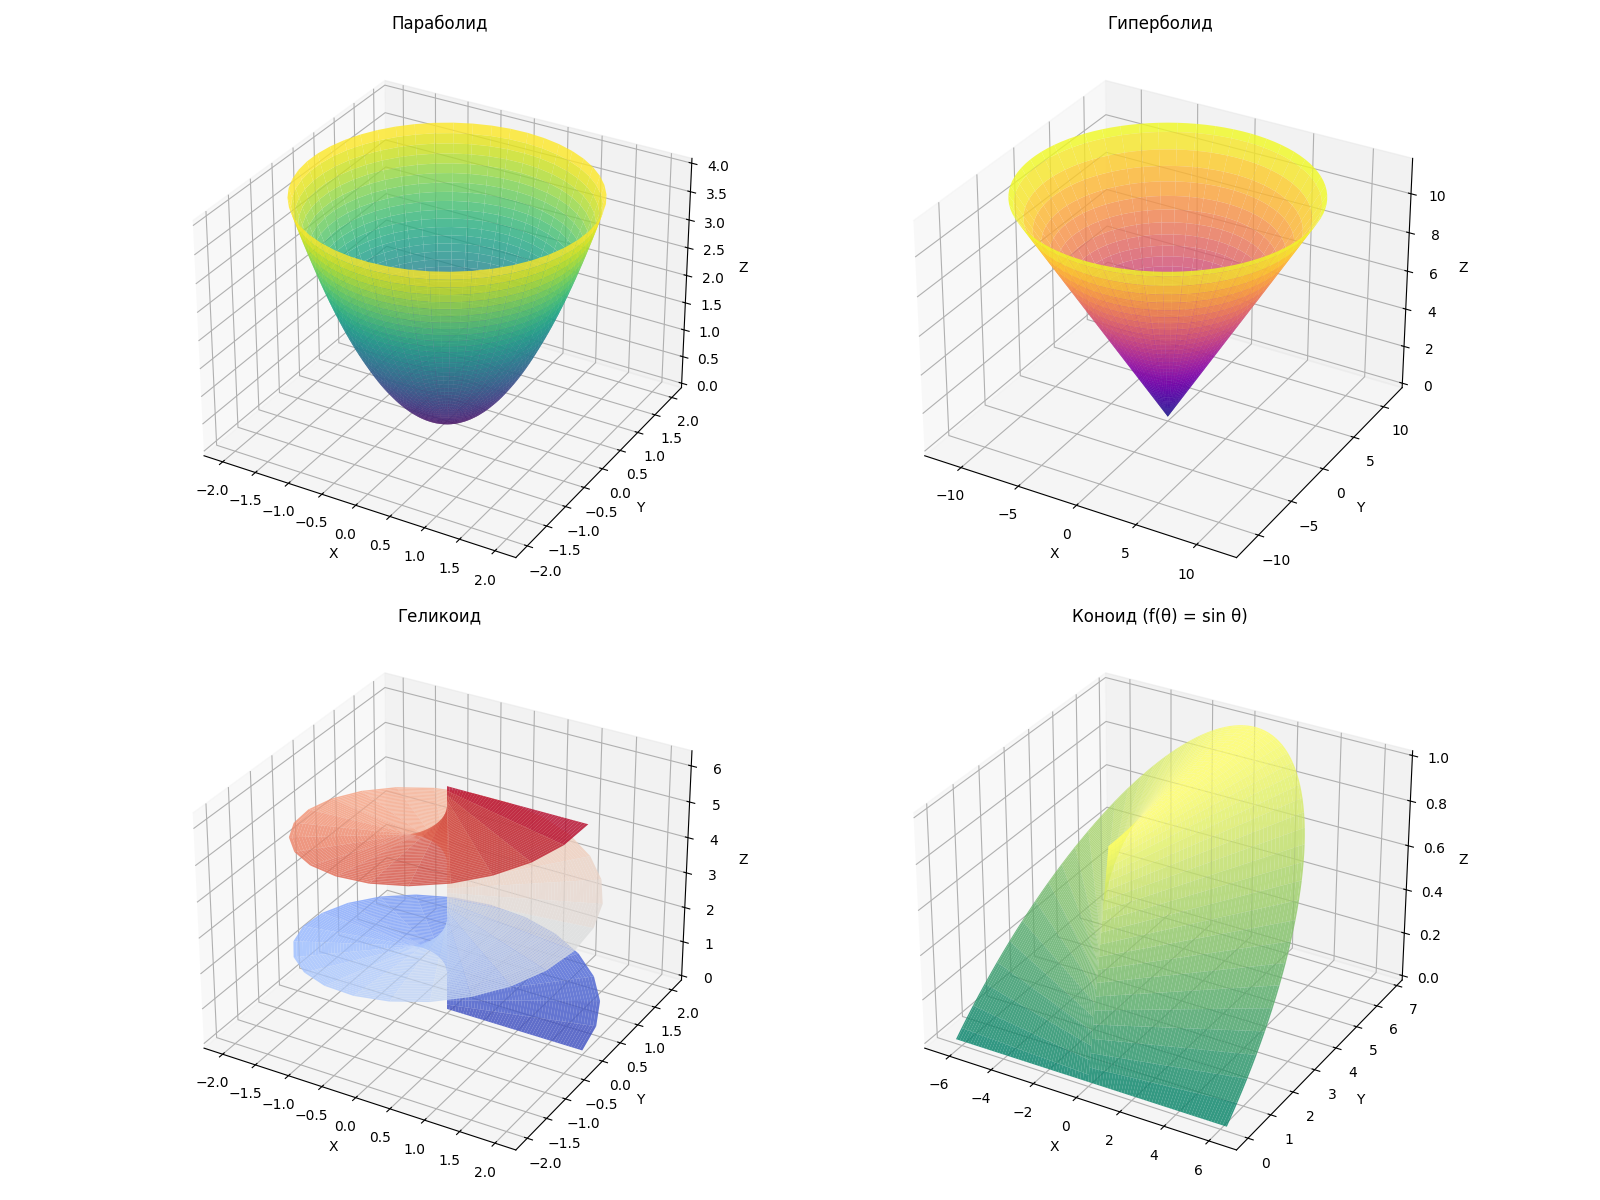
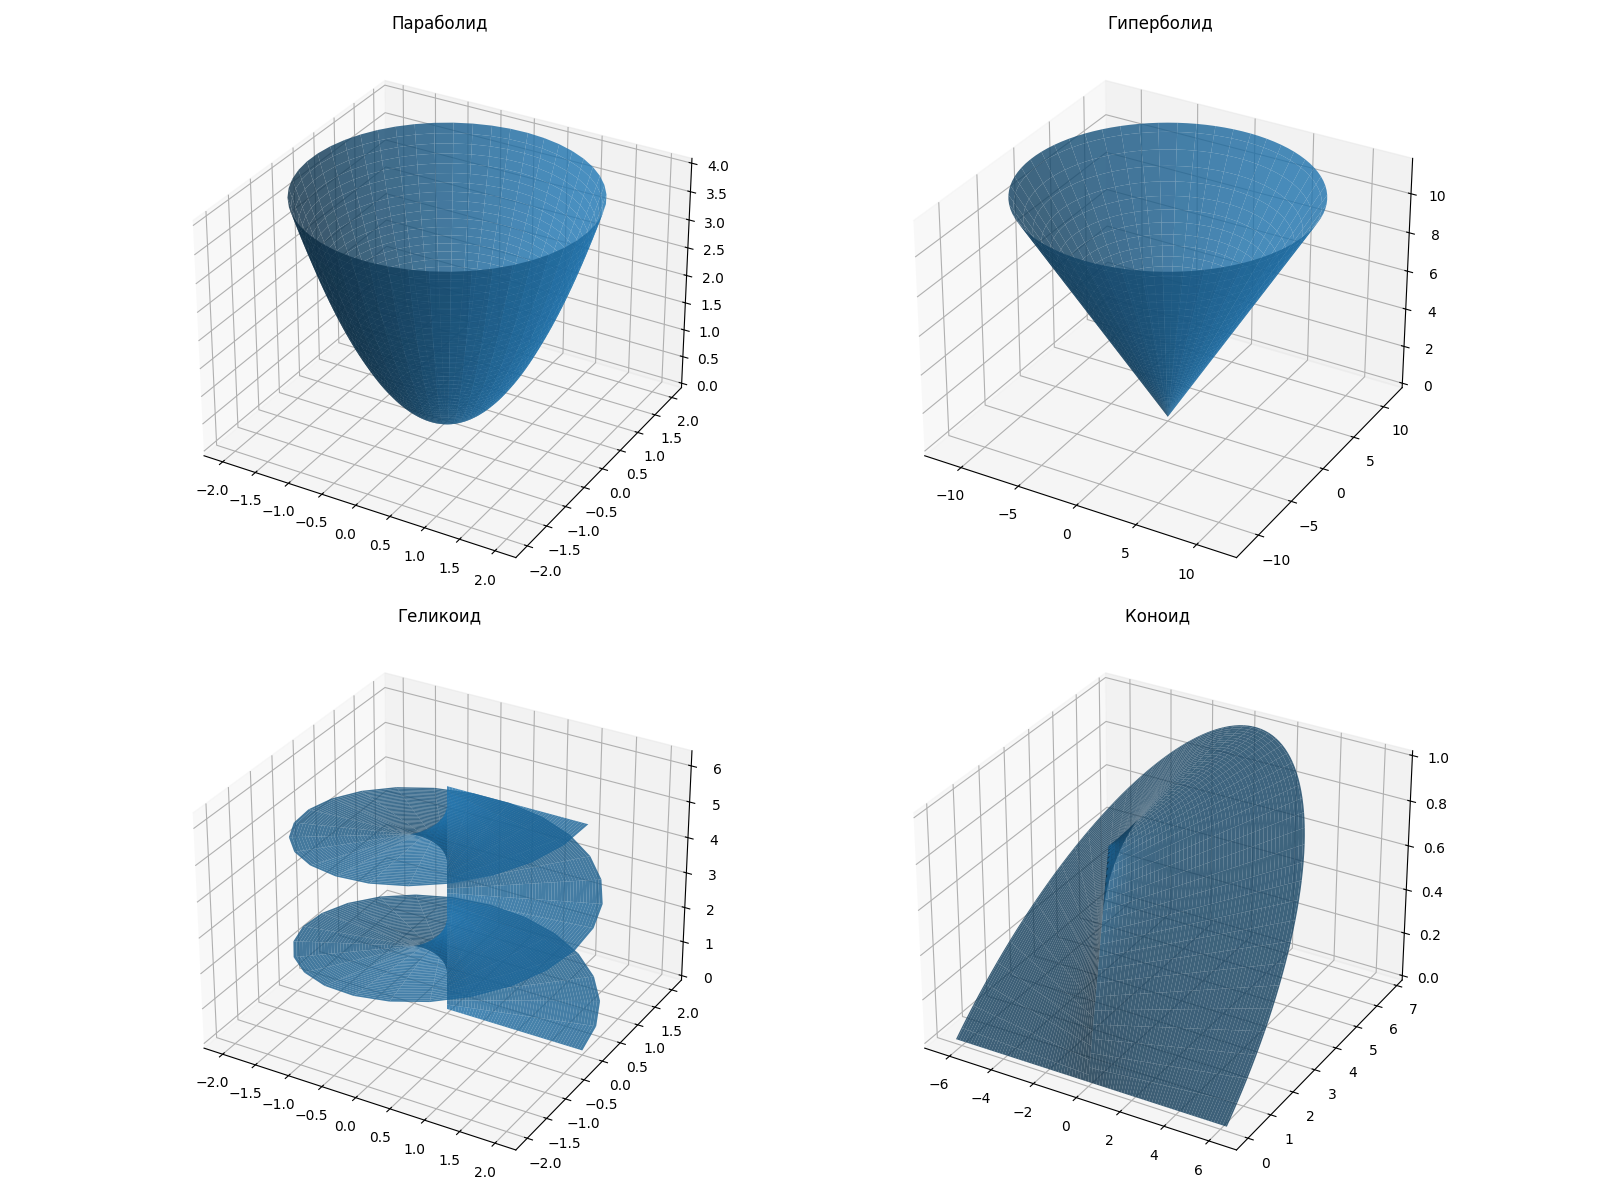
fbbfgg

diff --git a/square_lab_my.py b/square_lab_my.py
@@ -1,0 +1,123 @@
+import numpy as np
+import matplotlib.pyplot as plt
+from matplotlib.animation import FuncAnimation
+from mpl_toolkits.mplot3d.art3d import Poly3DCollection
+
+total_frames = 100
+fps = 30
+cube_size = 1.0
+initial_z = 0
+jump_height = 3.0
+rotation_speed = 180
+
+fig = plt.figure(figsize=(10, 8))
+ax = fig.add_subplot(111, projection='3d')
+ax.set_xlabel('X')
+ax.set_ylabel('Y')
+ax.set_zlabel('Z')
+ax.set_title('Прыгающий куб')
+ax.set_xlim(-2, 2)
+ax.set_ylim(-2, 2)
+ax.set_zlim(-0.5, 4)
+ax.set_xticks([])
+ax.set_yticks([])
+ax.set_zticks([])
+ax.grid(False)
+
+def create_cube(center=(0, 0, 0), size=1, rotation=0):
+    vertices = np.array([
+        [-1, -1, -1],
+        [1, -1, -1],
+        [1, 1, -1],
+        [-1, 1, -1],
+        [-1, -1, 1],
+        [1, -1, 1],
+        [1, 1, 1],
+        [-1, 1, 1]
+    ]) * size / 2
+    
+    if rotation != 0:
+        theta = np.radians(rotation)
+        rotation_matrix = np.array([
+            [np.cos(theta), -np.sin(theta), 0],
+            [np.sin(theta), np.cos(theta), 0],
+            [0, 0, 1]
+        ])
+        vertices = vertices @ rotation_matrix.T
+    
+    vertices += np.array(center)
+    
+    faces = [
+        [vertices[0], vertices[1], vertices[2], vertices[3]],
+        [vertices[4], vertices[5], vertices[6], vertices[7]],
+        [vertices[0], vertices[1], vertices[5], vertices[4]],
+        [vertices[2], vertices[3], vertices[7], vertices[6]],
+        [vertices[1], vertices[2], vertices[6], vertices[5]],
+        [vertices[0], vertices[3], vertices[7], vertices[4]]
+    ]
+    
+    return vertices, faces
+
+face_colors = ['red', 'blue', 'green', 'yellow', 'purple', 'orange']
+
+cube = Poly3DCollection([], alpha=0.8, linewidths=1, edgecolors='black')
+for color in face_colors:
+    cube.set_facecolor(color)
+ax.add_collection3d(cube)
+
+floor = Poly3DCollection([[
+    [-2, -2, -0.01],
+    [2, -2, -0.01],
+    [2, 2, -0.01],
+    [-2, 2, -0.01]
+]], alpha=0.3, color='gray')
+ax.add_collection3d(floor)
+
+def jump_height_at_frame(frame):
+    t = frame / total_frames
+    if t < 0.5:
+        return 4 * jump_height * t * (1 - t)
+    else:
+        return 4 * jump_height * t * (1 - t)
+
+def init():
+    cube.set_verts([])
+    return cube,
+
+def animate(frame):
+    height = jump_height_at_frame(frame % total_frames)
+    rotation = rotation_speed * (frame % total_frames) / total_frames
+    
+    vertices, faces = create_cube(
+        center=(0, 0, initial_z + height),
+        size=cube_size,
+        rotation=rotation
+    )
+    
+    cube.set_verts(faces)
+    
+    colors = []
+    for i, color in enumerate(face_colors):
+        factor = 0.8 + 0.2 * (height / jump_height)
+        colors.append(color)
+    cube.set_facecolor(colors)
+    
+    return cube,
+
+ani = FuncAnimation(
+    fig, 
+    animate, 
+    frames=total_frames * 3,
+    init_func=init, 
+    blit=True, 
+    interval=1000/fps
+)
+
+plt.tight_layout()
+plt.show()
+
+try:
+    ani.save('jumping_cube.gif', writer='pillow', fps=fps)
+    print("Сохранено как 'jumping_cube.gif'")
+except:
+    print("Установите pillow: pip install pillow")

diff --git a/lab_7.dop.py b/lab_7.dop.py
@@ -1,0 +1,70 @@
+import numpy as np
+import matplotlib.pyplot as plt
+from matplotlib.animation import FuncAnimation
+
+R = 2.0 
+k = 0.8 
+
+total_frames = 180
+
+fig, ax = plt.subplots(figsize=(10, 6))
+ax.set_xlabel('x')
+ax.set_ylabel('y')
+ax.grid(True, alpha=0.3)
+ax.set_aspect('equal')
+
+ax.set_xlim(-0.5, 4*np.pi*R + 0.5)
+ax.set_ylim(-R*k - 1.5, R*k + 1.5)
+
+def cycloid(t, R, k):
+    x = R * (t - k * np.sin(t))
+    y = R * (1 - k * np.cos(t))
+    return x, y
+
+t_background = np.linspace(0, 4*np.pi, 1000)
+x_background, y_background = cycloid(t_background, R, k)
+
+ax.plot(x_background, y_background, 'b-', linewidth=2, alpha=0.7)
+
+point, = ax.plot([], [], 'ro', markersize=12)
+trace, = ax.plot([], [], 'r-', linewidth=1.5, alpha=0.7)
+circle = plt.Circle((0, R), R, fill=False, color='green', linewidth=1.5, alpha=0.5)
+ax.add_patch(circle)
+
+radius_line, = ax.plot([], [], 'g--', linewidth=1.5, alpha=0.7)
+
+trace_x = []
+trace_y = []
+
+def init():
+    point.set_data([], [])
+    trace.set_data([], [])
+    radius_line.set_data([], [])
+    return point, trace, radius_line
+
+def animate(frame):
+
+    t = 4 * np.pi * frame / total_frames
+ 
+    x_point, y_point = cycloid(t, R, k)
+
+    point.set_data([x_point], [y_point])
+
+    trace_x.append(x_point)
+    trace_y.append(y_point)
+    trace.set_data(trace_x, trace_y)
+
+    circle.center = (R * t, R)
+
+    x_circle_point = R * t - R * k * np.sin(t)
+    y_circle_point = R - R * k * np.cos(t)
+    radius_line.set_data([R * t, x_circle_point], [R, y_circle_point])
+    
+    return point, trace, circle, radius_line
+
+ani = FuncAnimation(fig, animate, frames=total_frames,
+                    init_func=init, blit=True, interval=50)
+
+plt.tight_layout()
+plt.show()
+ani.save('animation_10.gif', writer="pillow")

diff --git a/lab_8_2.py b/lab_8_2.py
@@ -1,0 +1,50 @@
+import numpy as np
+import matplotlib.pyplot as plt
+from mpl_toolkits.mplot3d import Axes3D
+
+
+t = np.arange(0.01, 16*np.pi, 0.01)
+
+x1 = np.sin(2*t)
+y1 = 1 - np.cos(2*t)
+z1 = 2*np.cos(t)
+
+x2 = (2**(-0.1*t)) * np.cos(2*t)
+y2 = (2**(-0.1*t)) * np.sin(2*t)
+z2 = -t
+
+R = 1
+x3 = R * (np.cos(t))**3
+y3 = R * (np.sin(t))**3
+z3 = np.cos(2*t)
+
+fig = plt.figure(figsize=(10, 15))
+
+ax1 = fig.add_subplot(311, projection='3d')
+ax1.plot(x1, y1, z1, linewidth=2, color='blue')
+ax1.set_title('а) Непонятная кривая', fontsize=12)
+ax1.set_xlabel('X')
+ax1.set_ylabel('Y')
+ax1.set_zlabel('Z')
+ax1.view_init(elev=20, azim=45) 
+
+ax2 = fig.add_subplot(312, projection='3d')
+ax2.plot(x2, y2, z2, linewidth=2, color='red')
+ax2.set_title('б) Кривая, напоминающая пружинку', fontsize=12)
+ax2.set_xlabel('X')
+ax2.set_ylabel('Y')
+ax2.set_zlabel('Z')
+ax2.view_init(elev=20, azim=45)
+
+ax3 = fig.add_subplot(313, projection='3d')
+ax3.plot(x3, y3, z3, linewidth=2, color='green')
+ax3.set_title('в) Крутая кривая', fontsize=12)
+ax3.set_xlabel('X')
+ax3.set_ylabel('Y')
+ax3.set_zlabel('Z')
+ax3.view_init(elev=20, azim=45)
+
+plt.tight_layout()
+plt.show()
+
+plt.savefig('figures2.png',)

diff --git a/lab_8.py b/lab_8.py
@@ -39,34 +39,21 @@ Z_con = n * f(Theta)
 fig = plt.figure(figsize=(16, 12))
 
 ax1 = fig.add_subplot(221, projection='3d')
-ax1.plot_surface(X_par, Y_par, Z_par, cmap='viridis', alpha=0.8)
+ax1.plot_surface(X_par, Y_par, Z_par, alpha=0.8)
 ax1.set_title('Параболид')
-ax1.set_xlabel('X')
-ax1.set_ylabel('Y')
-ax1.set_zlabel('Z')
 
 ax2 = fig.add_subplot(222, projection='3d')
-ax2.plot_surface(X_hyp, Y_hyp, Z_hyp, cmap='plasma', alpha=0.8)
+ax2.plot_surface(X_hyp, Y_hyp, Z_hyp, alpha=0.8)
 ax2.set_title('Гиперболид')
-ax2.set_xlabel('X')
-ax2.set_ylabel('Y')
-ax2.set_zlabel('Z')
 
 ax3 = fig.add_subplot(223, projection='3d')
-ax3.plot_surface(X_hel, Y_hel, Z_hel, cmap='coolwarm', alpha=0.8)
+ax3.plot_surface(X_hel, Y_hel, Z_hel, alpha=0.8)
 ax3.set_title('Геликоид')
-ax3.set_xlabel('X')
-ax3.set_ylabel('Y')
-ax3.set_zlabel('Z')
 
 ax4 = fig.add_subplot(224, projection='3d')
-ax4.plot_surface(X_con, Y_con, Z_con, cmap='summer', alpha=0.8)
-ax4.set_title('Коноид (f(θ) = sin θ)')
-ax4.set_xlabel('X')
-ax4.set_ylabel('Y')
-ax4.set_zlabel('Z')
+ax4.plot_surface(X_con, Y_con, Z_con, alpha=0.8)
+ax4.set_title('Коноид ')
 
 plt.tight_layout()
 plt.show()
-
 plt.savefig('figures.png',)
